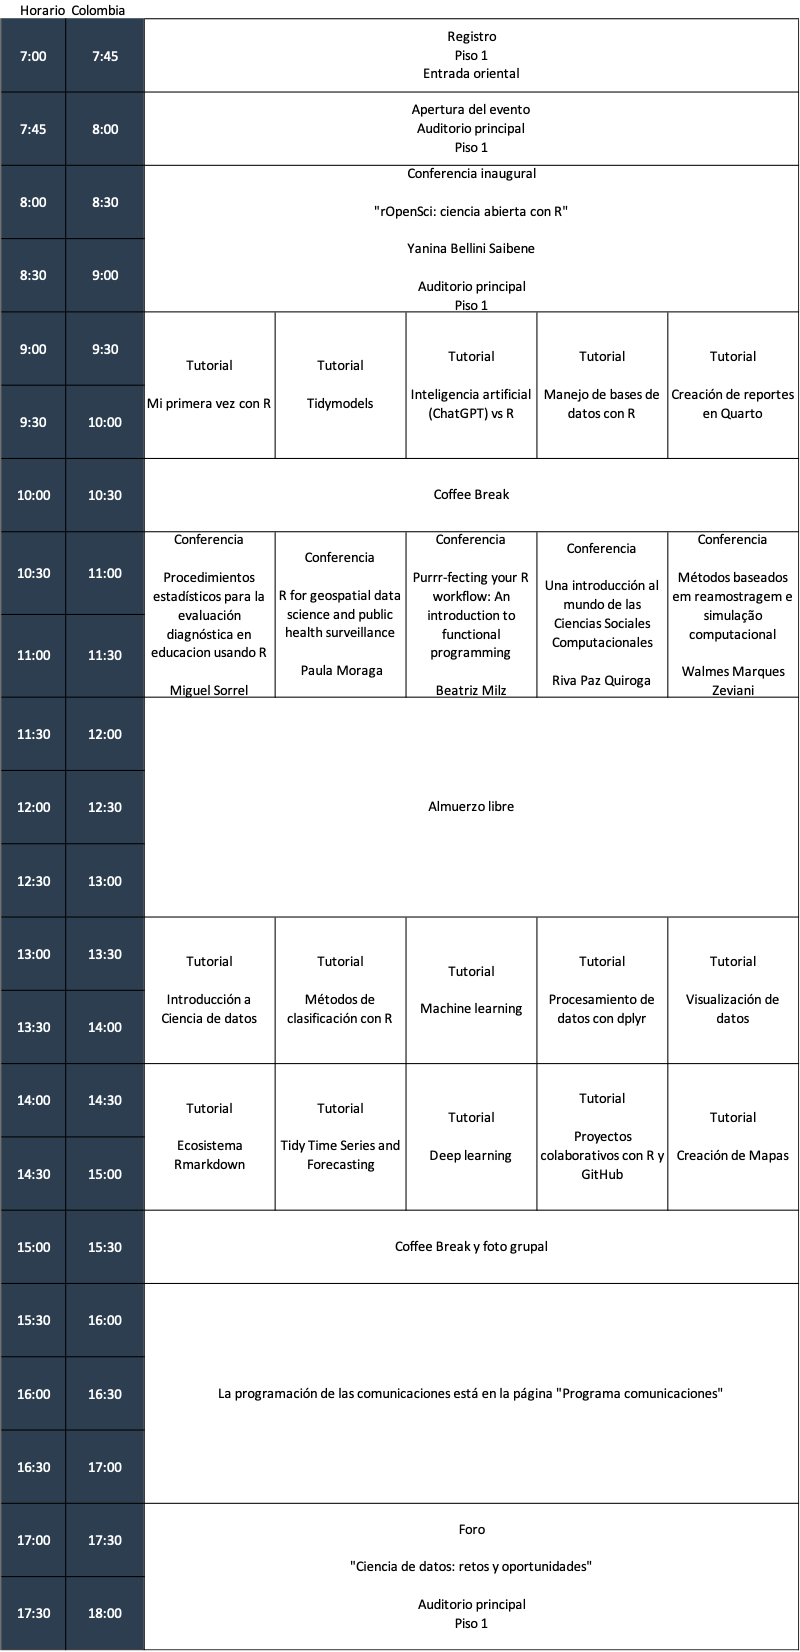
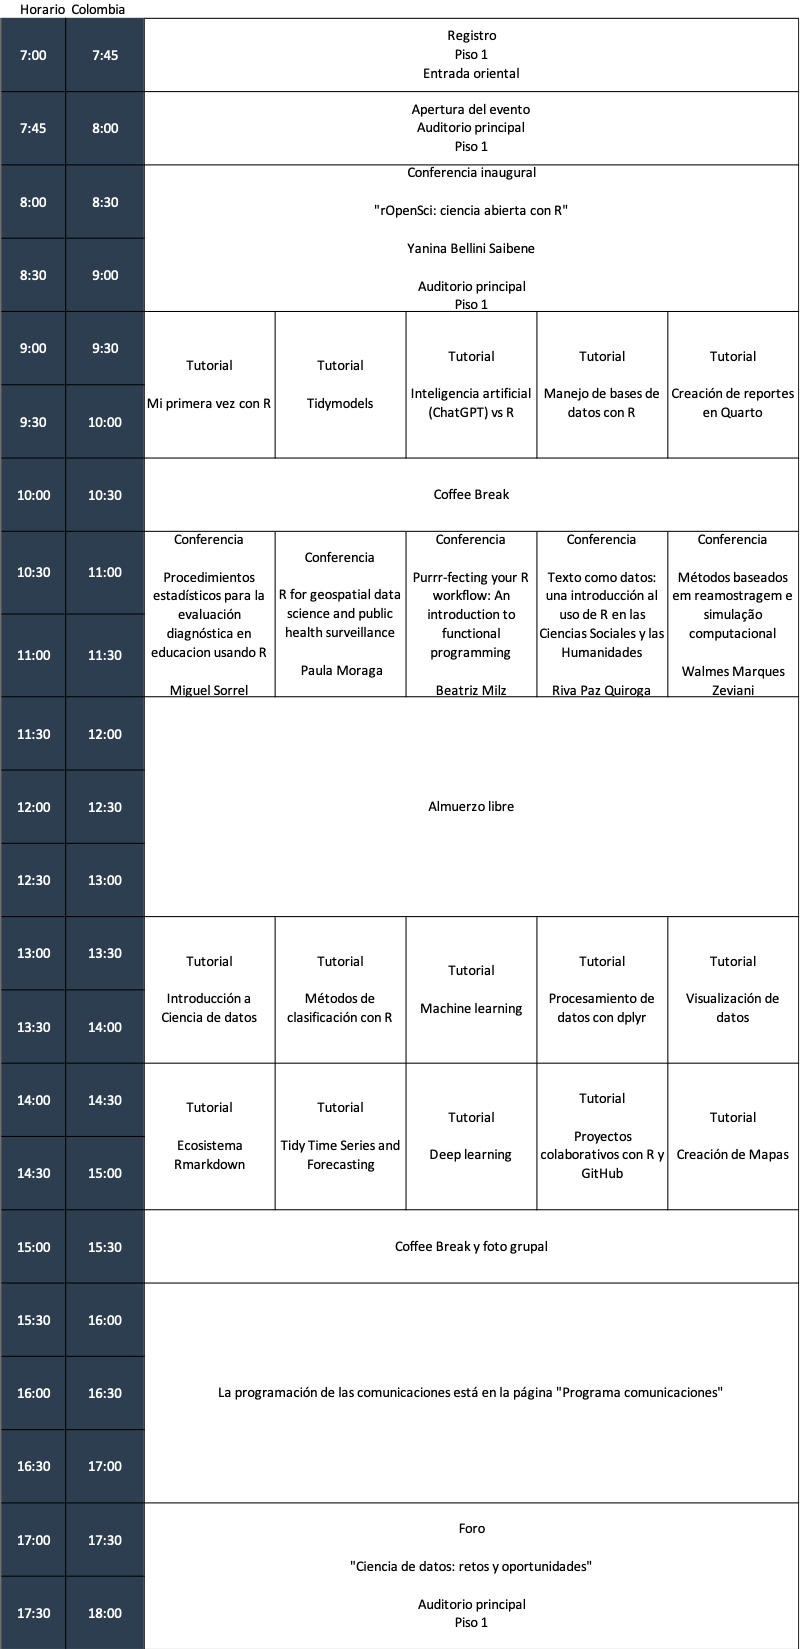
actualice titulo conf Riva

diff --git a/comites.html b/comites.html
@@ -378,22 +378,10 @@ Universidad del Norte.</li>
 <div id="comité-científico" class="section level2">
 <h2>Comité científico</h2>
 <ul>
-<li><a href="https://www.itm.edu.co/">David Rodríguez Guevara</a>,
-Institución Universitaria ITM.</li>
-<li><a href="https://www.itm.edu.co/">Jonathan Cano Bedoya</a>,
-Institución Universitaria ITM.</li>
-<li><a href="https://www.ehu.eus/es/home">Diana Marcela Pérez
-Valencia</a>, Universidad del País Vasco.</li>
-<li><a href="https://www.itm.edu.co/">Jessica María Rojas Mora</a>,
-Institución Universitaria ITM.</li>
 <li><a href="https://www.meetup.com/es/rladies-medellin/">Sara Garces
 Cespedes</a>, Universidad Nacional de Colombia, sede Medellín.</li>
 <li><a href="https://www.meetup.com/es/rladies-medellin/">Maria
 Valentina Clavijo Mesa</a>, Politécnico de Milán, Italia.</li>
-<li><a href="https://udemedellin.edu.co/">Luz Marcela Restrepo
-Tamayo</a>, Universidad de Medellín.</li>
-<li><a href="https://www.javeriana.edu.co/inicio">Eddy Herrera Daza</a>,
-Pontificia Universidad Javeriana.</li>
 <li><a href="https://www.meetup.com/es/rladies-medellin/">Olga Cecilia
 Usuga Manco</a>, Universidad de Antioquia.</li>
 <li><a href="https://www.meetup.com/es/rladies-medellin/">Carmen Elena
